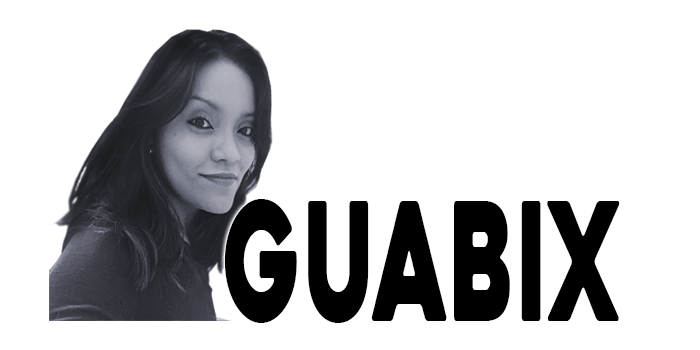
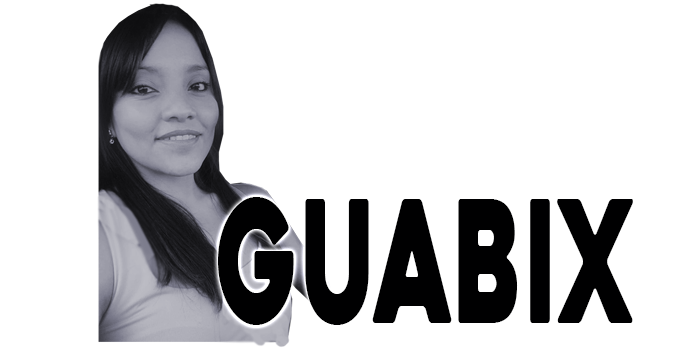
cambio de portada

diff --git a/index.html b/index.html
@@ -34,16 +34,16 @@
         </div>
         <div class="carousel-inner">
           <div class="carousel-item active align">
-            <img src="source/drigao.jpg" class="d-block w-100" alt="">
+            <img src="source/torneo.jpg" class="d-block w-100" alt="">
           </div>
           <div class="carousel-item">
-            <img src="source/tawua.jpg" class="d-block w-100" alt="">
+            <img src="source/torneo2.jpg" class="d-block w-100" alt="">
           </div>
           <div class="carousel-item">
-            <img src="source/guabix.jpg" class="d-block w-100" alt="">
+            <img src="source/torneo3.jpg" class="d-block w-100" alt="">
           </div>
           <div class="carousel-item">
-            <img src="source/beto.jpg" class="d-block w-100" alt="">
+            <img src="source/torneo2.jpg" class="d-block w-100" alt="">
           </div>
         </div>
         <button class="carousel-control-prev" type="button" data-bs-target="#carouselExampleIndicators" data-bs-slide="prev">
